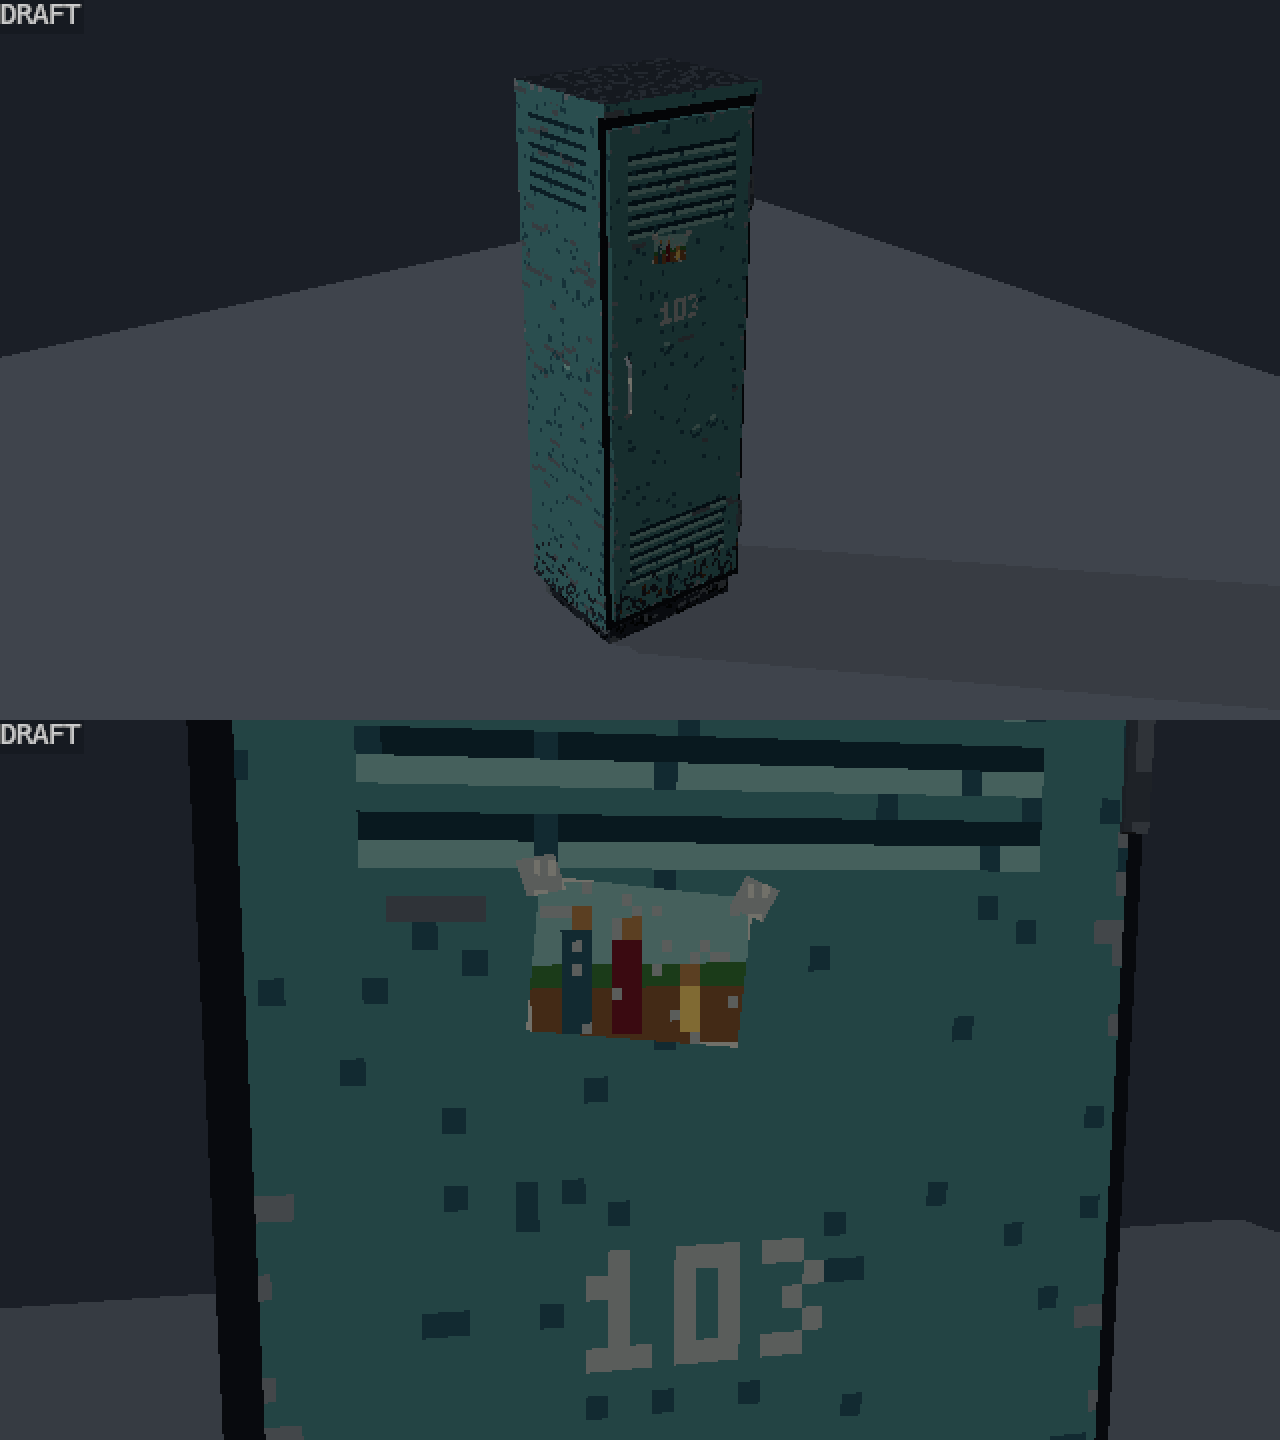
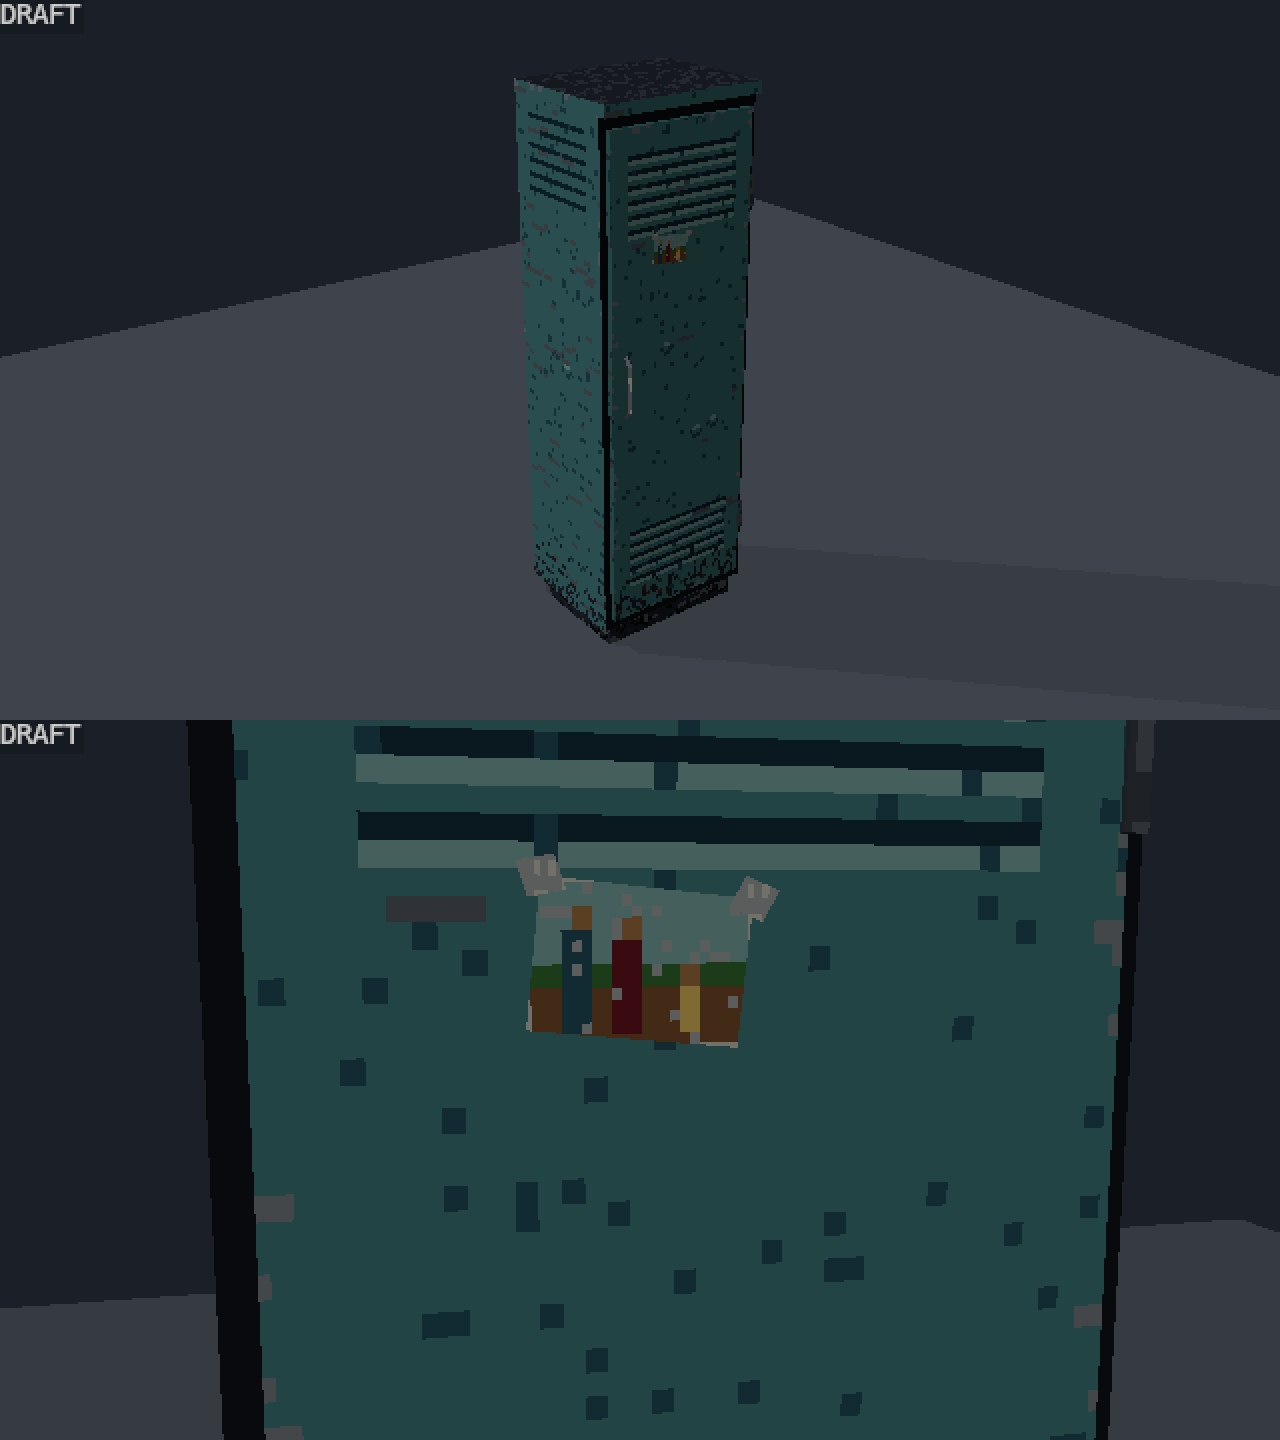
assets(P04): SM_Motel_Locker rework - no fixed room number (#29)

Changed region(s): [[0.4375, 0.8438, 0.6562, 0.9688]]

diff --git a/docs/ASSET-REQUESTS.md b/docs/ASSET-REQUESTS.md
@@ -1050,7 +1050,7 @@ feedback: []
 path: Assets/_Project/Art/Models/Motel/SM_Motel_Locker.fbx
 package: P04
 scene: Motel
-status: rework
+status: Vorschau
 priority: P1
 needed_by: 2026-11-16
 size_m: [0.6, 0.5, 1.9]
